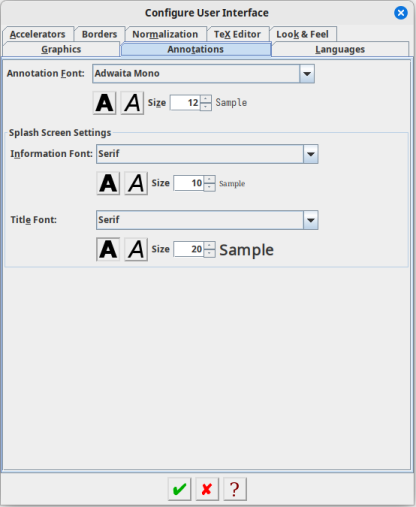
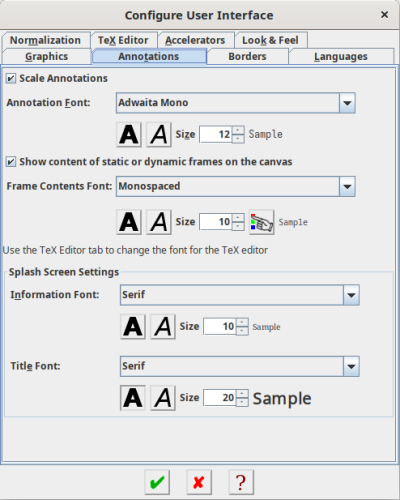
changed tags for annotations

Changed region(s): [[0.0, 0.0, 1.0, 1.0]]

diff --git a/src/doc/en/flowframtk-main.tex b/src/doc/en/flowframtk-main.tex
@@ -2385,6 +2385,47 @@ The \widget{annotations.title} tab (\figureref{fig:annotations})
 allows you to set the font used for annotating frames or draft
 \glspl{bitmap} and set the font used on the splash screen during startup.
 
+\widgetdef{annotations.scale}
+
+If the \widget{annotations.scale} checkbox is on, the annotations will scale as you
+increase or decrease the \gls{canvas} magnification 
+(see \sectionref{sec:zoommenu}).
+
+\widgetdef{annotations.annote_font}
+The \widget{annotations.annote_font} is used for \gls{flowframe}
+annotations (at the bottom left of the frame, offset by the inner
+padding) and also for the file name of \glspl{bitmap} shown in draft
+mode.
+
+\widgetdef{annotations.frame_contents.show}
+If the \widget{annotations.frame_contents.show} checkbox is
+selected, any static or dynamic frames with contents set
+will have the contents shown on the \gls{canvas}. This is
+non-editable. You need to use \menu{tex.flowframe.set_frame}
+if you want to change the contents (or use the \dialog{flfwizard}).
+
+This can be distracting if there are many \glspl{object} on the
+\gls{canvas}. In which case, unselect the 
+\widget{annotations.frame_contents.show} to hide the content.
+
+\widgetdef{annotations.frame_contents.font}
+If the \widget{annotations.frame_contents.show} checkbox is
+selected, the \widget{annotations.frame_contents.font} setting is
+used to render the content.
+
+This isn't the same as that used in the 
+\TeX\ editor (see \sectionref{sec:texeditor}). Use the
+\dialog{texeditorui} tab (see \sectionref{sec:texeditorui}) to
+change that.
+
+The frame contents annotation is the only setting in this panel
+where you can also change the annotation text \manmsg{colour}.
+Use the \btn{button.choose_colour} button to open the
+\manmsg{colour} selector dialog.
+
+\widgetdef{splash.title}
+The \widget{splash.title} panel is for the fonts used on the splash
+screen when \FlowframTk\ starts up.
 
 \subsubsection{Language Settings}\label{sec:languages}
 
@@ -2857,7 +2898,7 @@ the \filefn{export} functions
 \hyperref[sec:languages]{language settings} used for the resources and manual;
 
 \item the \file{startup.conf} file that stores the names of the
-fonts used by the \hyperref[sec:graphics]{startup splash screen};
+fonts used by the \hyperref[sec:annotations]{startup splash screen};
 
 \item the \file{latexfontmap.prop} file (created by you, if you want
 it, in any text editor) that contains any \glspl{font-mapping} (see
@@ -12863,9 +12904,16 @@ or environments provided by the \sty{flowfram} package. For your
 convenience, \FlowframTk\ provides a way for you to specify the
 contents and will use the appropriate commands when you export to a
 package or class file.
+
 To add or edit the contents, click on the
 \widget{flowframe.edit} button, which will open
 \FlowframTk's little \TeX\ editor.
+The contents will be shown on the \gls{canvas} if the
+\widget{annotations.frame_contents.show} setting is on
+(see \sectionref{sec:annotations}), but you can only change
+the contents by clicking on the \widget{flowframe.edit}
+button in either the \dialog{flfwizard} or in the
+\dialog{flowframe} dialog.
 
 \begin{important}
 You can't use verbatim text in the contents.

diff --git a/src/java/flowframtk/dialog/ConfigUISettingsDialog.java b/src/java/flowframtk/dialog/ConfigUISettingsDialog.java
@@ -2940,8 +2940,10 @@ class AnnoteFontPanel extends JavaFontSelector
 {
    public AnnoteFontPanel(FlowframTk application, JLabelGroup labelGrp)
    {
-      super(application, labelGrp, "annote.font", 
-       "annote.font.bold", "annote.font.italic", "annote.fontsize");
+      super(application, labelGrp, "annotations.annote_font", 
+       "annotations.annote_font.bold",
+       "annotations.annote_font.italic",
+       "annotations.annote_fontsize");
    }
 
    public void initialise(FlowframTkSettings settings)
@@ -2965,19 +2967,22 @@ class FrameContentFontPanel extends JPanel
       JDRResources resources = application.getResources();
 
       showBox = resources.createAppCheckBox(
-       "annote_contents", "show", true, null);
+       "annotations.frame_contents", "show", true, null);
 
       add(showBox, "North");
 
       fontSelector = new JavaFontSelector(application, labelGrp,
-        "annote_contents.font", 
-       "annote_contents.font.bold", "annote_contents.font.italic",
-       "annote_contents.font.size", "annote_contents.font.colour");
+       "annotations.frame_contents.font", 
+       "annotations.frame_contents.font.bold",
+       "annotations.frame_contents.font.italic",
+       "annotations.frame_contents.font.size", 
+       "annotations.frame_contents.colour");
 
       add(fontSelector, "Center");
 
       JTextComponent info = resources.createAppInfoField(
-       "annote_contents.font_info", resources.getMessage("texeditorui.title"));
+       "annotations.frame_contents.editor_font_info",
+          resources.getMessage("texeditorui.title"));
       add(info, "South");
 
       resources.clampCompMaxHeight(this, 0, 10);
